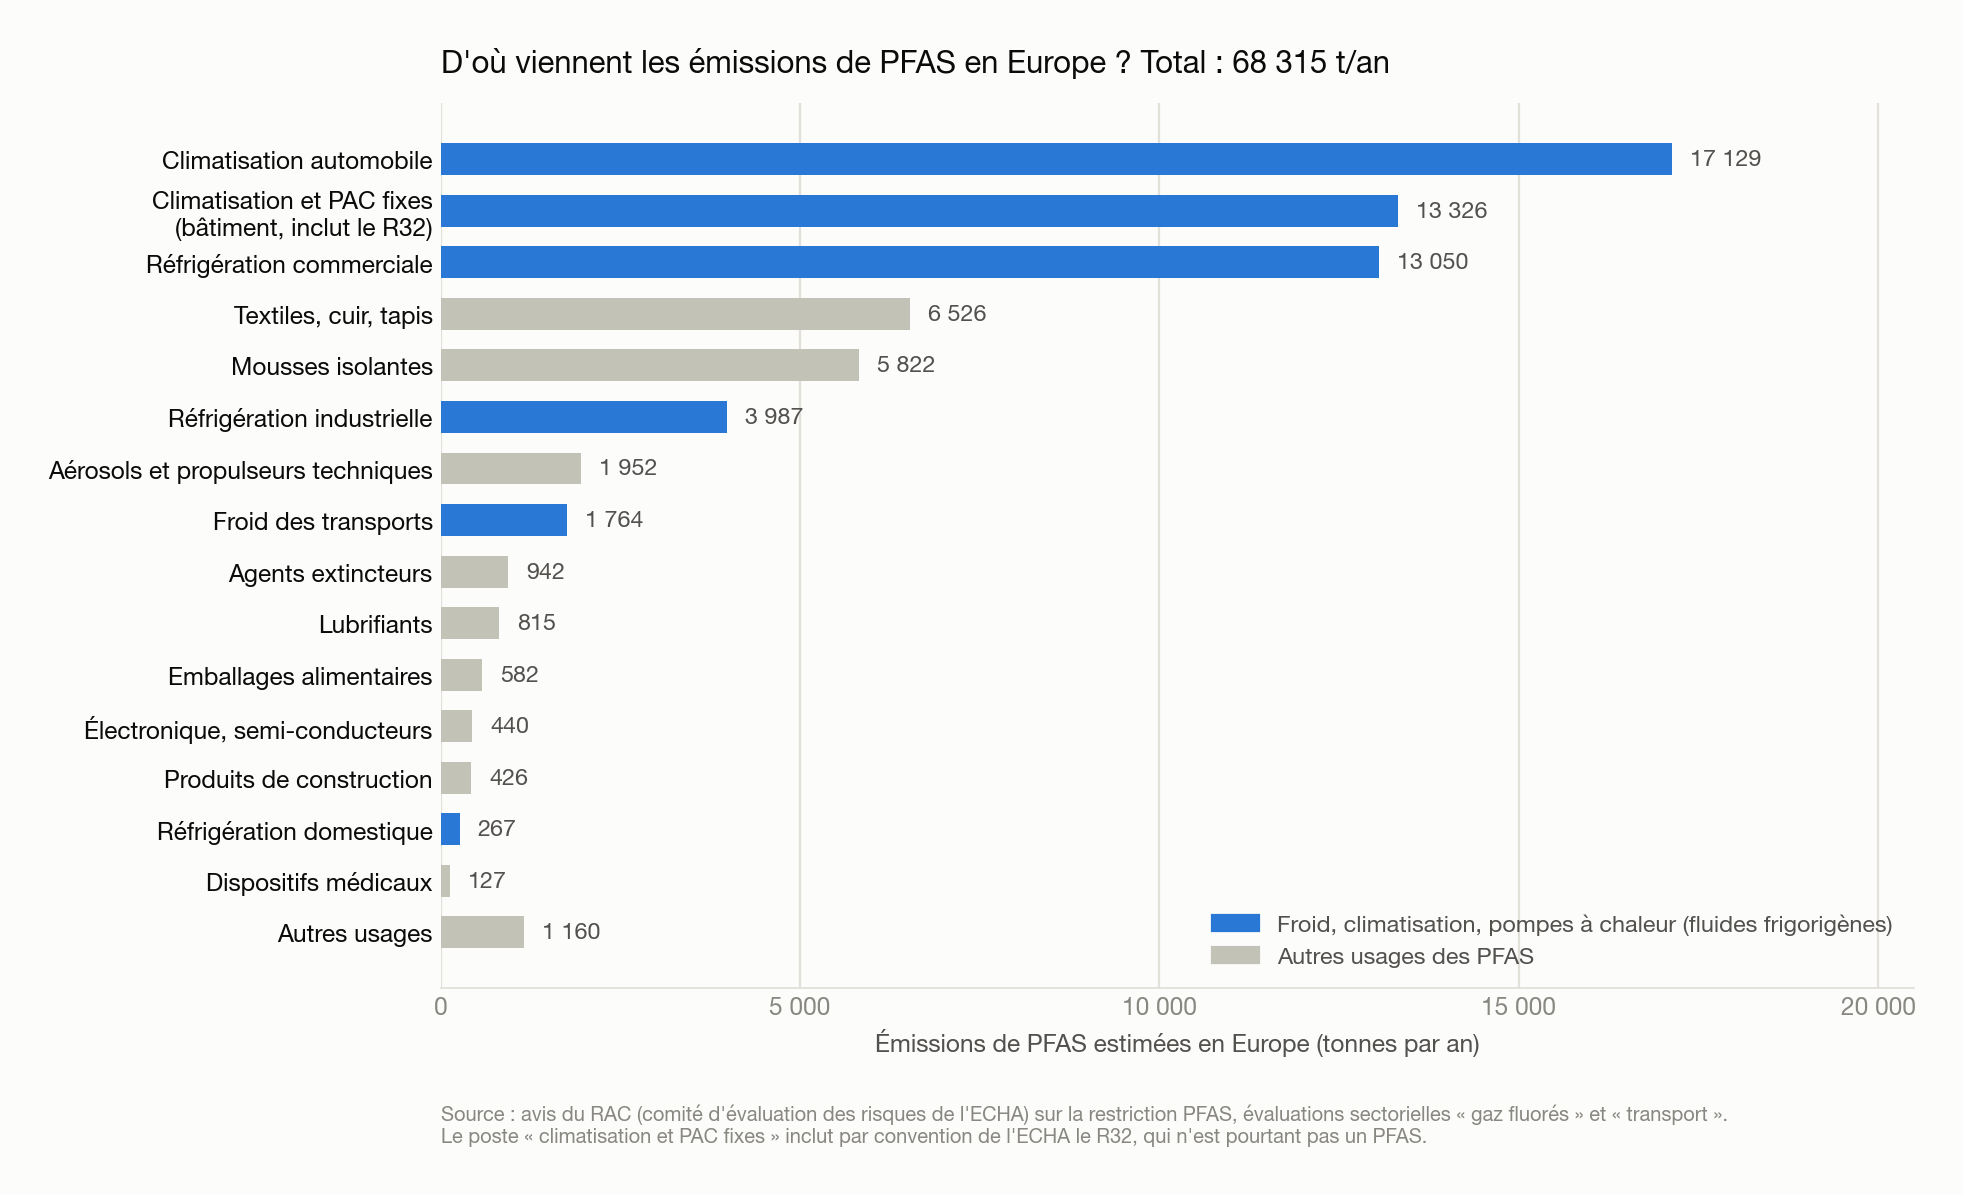
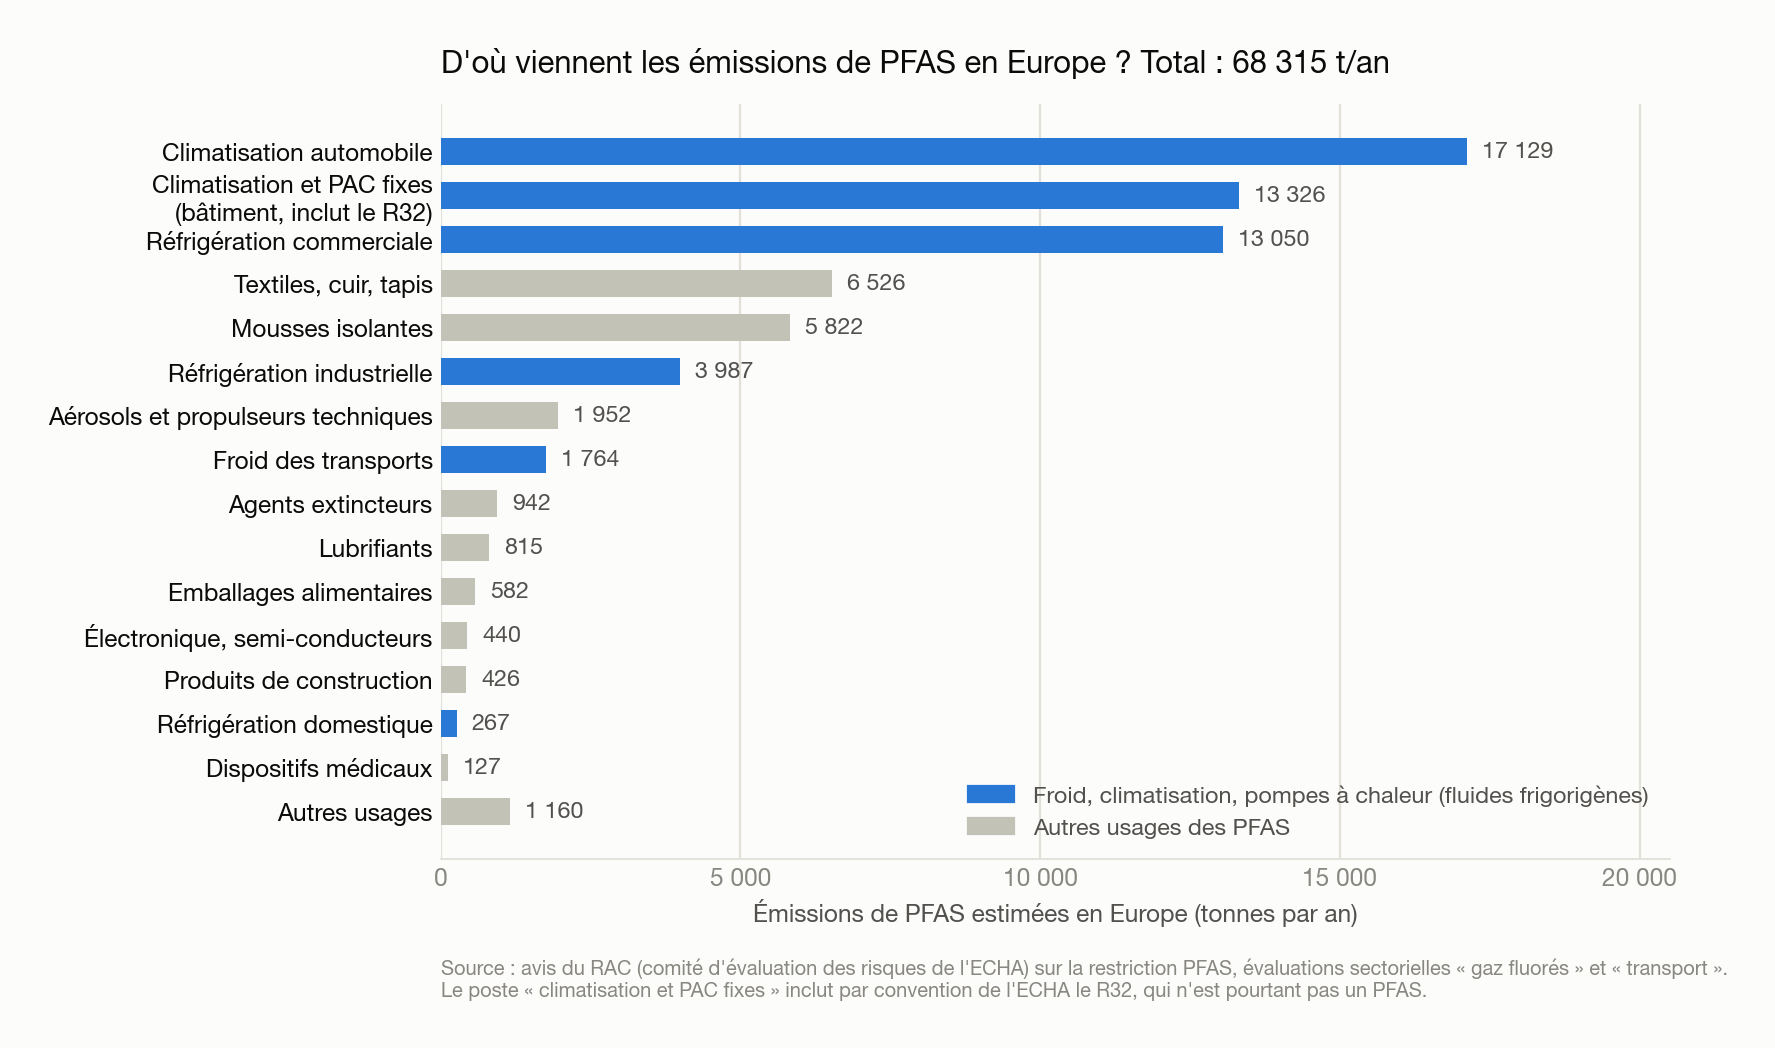
Figure 3 plus lisible : pleine largeur et texte relativement plus grand
La figure des émissions PFAS par usage porte 17 lignes de libellés et sortait à
85 % de la colonne : le texte rendu tombait autour de 9 px. Passée à 100 %, et
toile réduite de 12 x 7,2 à 10,5 x 6,3 pouces à taille de police inchangée, ce
qui augmente la taille relative du texte d'environ 14 %. Même composition, même
rapport d'aspect ; le rendu à l'écran passe d'environ 9 à 13 px.

Source : figures/fig_emissions_pfas_europe.py du dossier de l'article.

Claude-Session: https://claude.ai/code/session_01BUkUFrNpXQBiDpPpu3dcoR

diff --git a/_posts/2026-09-04-PFAS-pompes-a-chaleur.md b/_posts/2026-09-04-PFAS-pompes-a-chaleur.md
@@ -98,7 +98,7 @@ Résumé -- Les PFAS, ces « polluants éternels », sont entrés dans le débat
 ## Tous les usages ne se valent pas
 
 <span class="text" id="Figure3" style="display:block;text-align:center">
-![Répartition des émissions de PFAS en Europe par usage]({{site.baseurl}}/assets/images/Posts/2026-09-04/pfas_emissions_europe.png){:.border width="85%"}
+![Répartition des émissions de PFAS en Europe par usage]({{site.baseurl}}/assets/images/Posts/2026-09-04/pfas_emissions_europe.png){:.border width="100%"}
 </span>
 
 <span class="legendtext" id="CAPFigure3" style="display:block;text-align:center">
